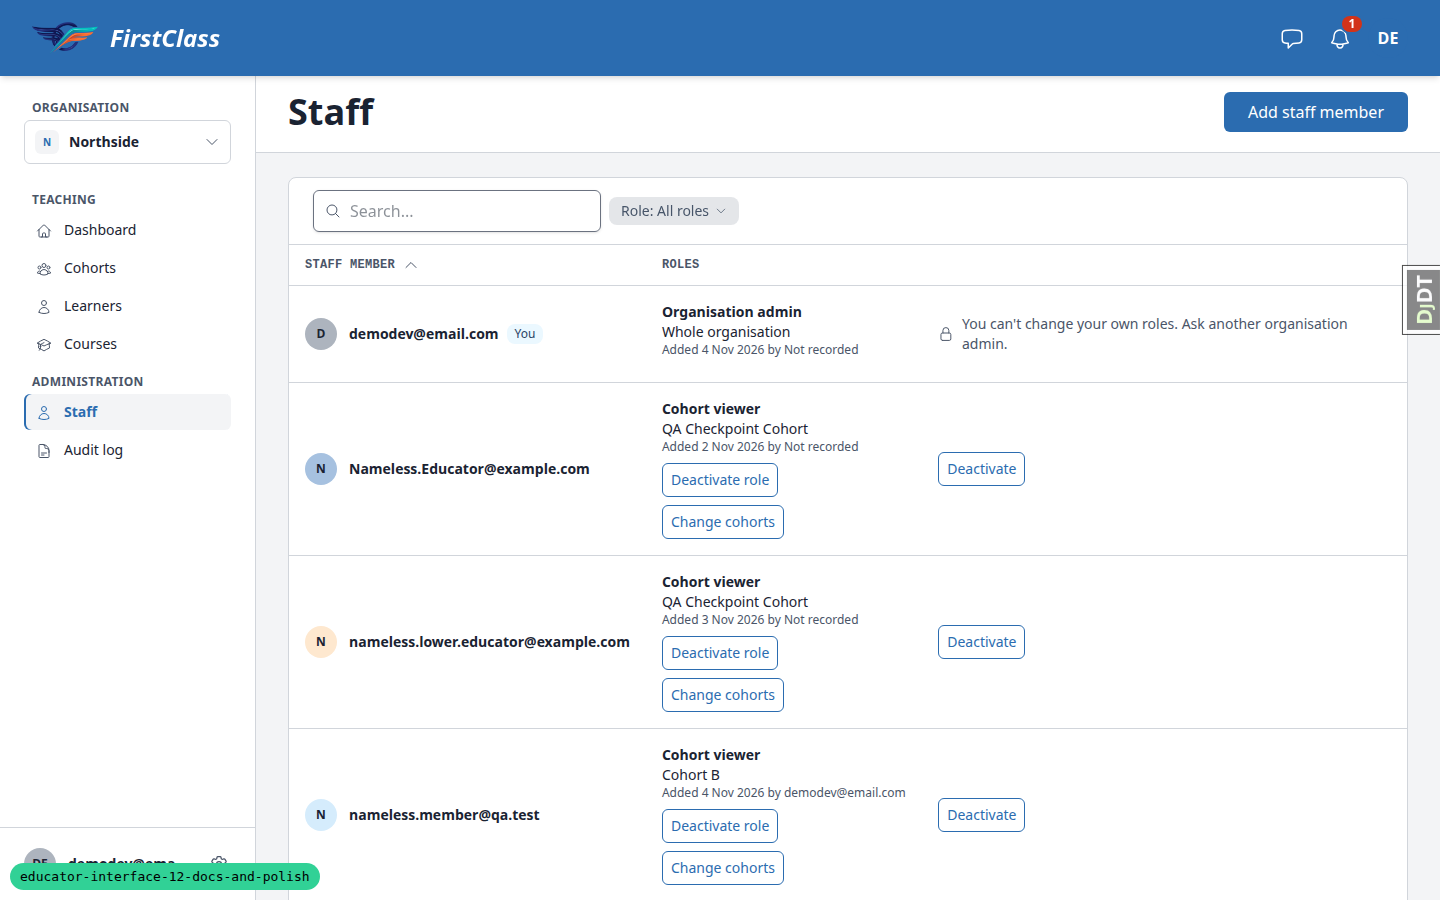
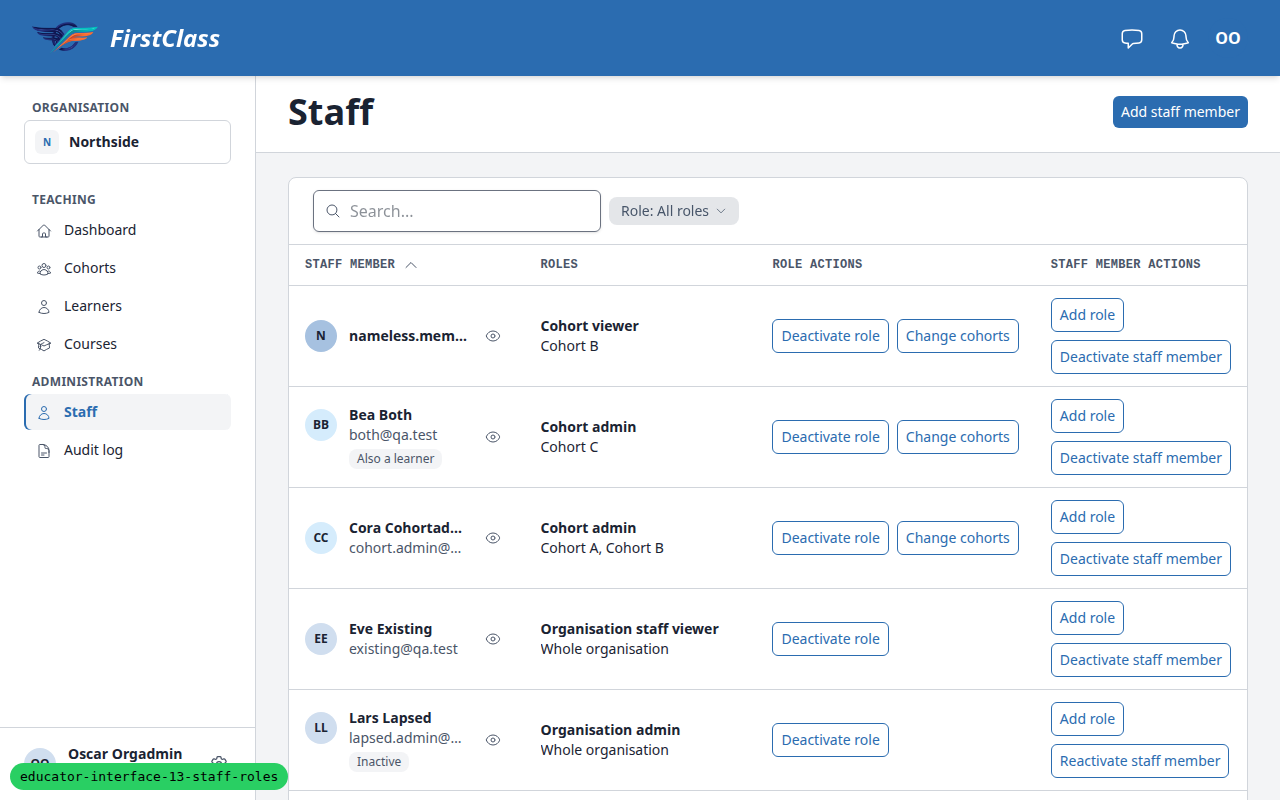
educator-interface-13-staff-roles: update the product docs

diff --git a/docs/product/educator-interface.md b/docs/product/educator-interface.md
@@ -4,16 +4,16 @@ _Last updated: 2026-11-11_
 
 ## Summary
 
-- Educators work in one panel scoped to one organisation at a time, with Dashboard, Cohorts, Learners and Courses under Teaching, and Staff and Audit log under Administration for admins. See [Organisation scope](#organisation-scope).
+- Educators work in one panel scoped to one organisation at a time, with Dashboard, Cohorts, Learners and Courses under Teaching, and Staff and Audit log under Administration. Staff is also open to the two staff viewer roles; Audit log is for admins. See [Organisation scope](#organisation-scope).
 - The dashboard shows totals, the learners who need attention and each cohort's progress. See [Dashboard](#dashboard).
 - Educators add learners by email or CSV file, see whether each is active, pending or inactive, manage their cohorts and course registrations, and deactivate or reactivate them. A quick view previews a learner or cohort without leaving the list. See [Learners](#learners).
 - Educators can act on many learners or cohorts at once, including everything matching the current filter. See [Bulk actions](#bulk-actions).
 - Educators create, rename, deactivate and delete cohorts, and register a cohort for courses. See [Cohorts](#cohorts).
 - The Courses list shows each course's visibility and interest count. A course's page shows its details and an outline of its content, and any topic or form can be previewed as a learner would see it, without recording progress. Visibility is read-only here. See [Courses](#courses).
-- Organisation admins add staff, assign and deactivate their roles, and deactivate or reactivate them. See [Staff and roles](#staff-and-roles).
+- Organisation admins add staff, assign and deactivate their roles, and deactivate or reactivate them. Cohort admins manage staff on their own cohorts, and two viewer roles can read the staff list. See [Staff and roles](#staff-and-roles).
 - Site and organisation admins see who changed what and when, on learner and cohort pages and in an Audit log, and a cohort admin sees it on the cohorts they administer. See [History](#history).
 - A cohort's progress report shows on screen, with a PDF to download. See [Reports](#reports).
-- Access is granted by role: site admin, organisation admin, cohort admin or cohort viewer. See [Access control](#access-control).
+- Access is granted by role: site admin, organisation admin, organisation staff viewer, organisation staff and roles viewer, cohort admin or cohort viewer. See [Access control](#access-control).
 - **Limits:** educators cannot see or set deadlines, and moving or deleting in bulk and updating existing learners from a file are not built. See [Limits](#limits).
 
 ## Dashboard
@@ -104,7 +104,7 @@ The Cohorts list shows each cohort in the current organisation the educator has 
 - **Deactivating.** An inactive cohort's registrations give no access to their courses and the cohort becomes read-only, so it takes no membership action. Learners keep their place and progress, and reactivating restores access. See [learner tracking](./learner-tracking.md#what-is-recorded).
 - **Deleting.** Only while the cohort has no learners and no course registrations, inactive ones included; otherwise the Settings tab says what still depends on it. Deleting a cohort also deletes the cohort roles held on it.
 
-Renaming, deactivating, reactivating and deleting need an organisation admin or site admin. A cohort admin can register their own cohort for courses and deactivate those registrations. An organisation admin can add a staff member to the cohort from the Settings tab's Staff list; roles are changed from [Staff](#staff-and-roles).
+Renaming, deactivating, reactivating and deleting need an organisation admin or site admin. A cohort admin can register their own cohort for courses and deactivate those registrations. An organisation admin or the cohort's admin can add staff to the cohort, change a person's role on it and remove them from it, from the Settings tab's Staff list. A cohort admin chooses only among staff they can already see. Adding a new person to the organisation's staff is for organisation admins; see [Staff and roles](#staff-and-roles).
 
 ## Courses
 
@@ -124,24 +124,27 @@ Visibility is set only in the course's content frontmatter and takes effect on i
 
 ## Staff and roles
 
-![Staff list with each staff member's roles, the cohorts a role covers and who added it, and an Add staff member button](screenshots/educator_members.png)
+![Staff list with each staff member's roles and the cohorts a role covers, the actions on each role and each staff member, and an Add staff member button](screenshots/educator_members.png)
 
-Staff are the people who help run an organisation, whether or not they teach. A staff member holds one or more roles in the organisation:
+Staff are the people who help run an organisation, whether or not they teach. A staff member holds one or more roles in the organisation, or none yet:
 
 - **Organisation admin**: manages learners, cohorts and staff in this organisation.
-- **Cohort admin**: manages the learners and course registrations in their cohorts.
+- **Organisation staff and roles viewer**: sees who is on the organisation's staff and the roles they hold, and changes nothing.
+- **Organisation staff viewer**: sees who is on the organisation's staff, without their roles, and changes nothing.
+- **Cohort admin**: manages the learners and course registrations in their cohorts, and the staff on them.
 - **Cohort viewer**: sees the learners and progress in their cohorts, and changes nothing.
 
-A fourth role, **site admin**, gives full access to every organisation on the site. It is not given from this interface (see [Limits](#limits)), and a site admin is listed as staff of an organisation only through a role they hold in it. A learner is a staff member only if they also hold one of these roles.
+The two staff viewer roles open the Staff section and no other section. A further role, **site admin**, gives full access to every organisation on the site. It is not given from this interface (see [Limits](#limits)), and a site admin is listed as staff of an organisation only through a role they hold in it. A learner is a staff member only if they also hold one of these roles.
 
-The Staff section is visible only to organisation admins and site admins. It lists each staff member with their roles, the cohorts a cohort role covers, and who added each role and when, and can be searched and filtered by role. From it an organisation admin can:
+The Staff section is open to organisation admins, site admins and the two staff viewer roles. It lists each staff member with their roles, the cohorts a cohort role covers, and who added each role and when, and can be searched and filtered by role. An organisation staff viewer sees names only. From it an organisation admin can:
 
-- **Add a staff member** by email. An existing account shows that person's name and email before anything is saved; a new address gets an account and an [account setup email](#adding-learners). The admin picks one role and, for a cohort role, the cohorts it covers, which does not extend to cohorts added later.
+- **Add a staff member** by typing a name or a full email. Matches appear as you type, drawn from the organisation's staff and active learners; a full email also reaches an account that is not yet in the organisation. An existing account shows that person's name and email before anything is saved; a new address gets an account and an [account setup email](#adding-learners). The admin picks one role and, for a cohort role, the cohorts it covers, which does not extend to cohorts added later, or picks no role yet.
+- **Add a role** to a staff member later.
 - **Change the cohorts** on a cohort role.
 - **Deactivate a role.** The person keeps their account, their other roles and any place as a learner.
 - **Deactivate a staff member**, which stops everything they can do in this organisation while keeping their roles, and **reactivate** them.
 
-Admins can give only roles at or below their own. A change that gives someone access they did not have, or takes access away, is confirmed first and says what changes. Roles add up: to change someone's role, assign the new one and deactivate the old. The person is not notified when a role is assigned or deactivated, a setup email cannot be resent from this section, and staff members have no page of their own. Role changes and staff deactivations are recorded in the [Audit log](#audit-log).
+Admins can give only roles at or below their own. A change that gives someone access they did not have, or takes access away, is confirmed first and says what changes. Roles add up: to change someone's role, assign the new one and deactivate the old. The person is not notified when a role is assigned or deactivated, a setup email cannot be resent from this section, and staff members have no page of their own. Adding a staff member, role changes and staff deactivations are recorded in the [Audit log](#audit-log).
 
 ## History
 
@@ -185,7 +188,7 @@ The current organisation is part of every page's address, so two browser tabs ca
 
 Access comes from **role assignments**; permissions granted on a cohort or organisation in the Django admin have no effect here. The roles are described in [Staff and roles](#staff-and-roles).
 
-A person holding several roles gets all of them. A role on an organisation covers every cohort in it, including ones created later; a role on a cohort covers that cohort and its learners. Organisation and cohort roles count only while the person is an active staff member of that organisation: deactivating a staff member switches off their access without deleting their roles, and reactivating restores it. Organisation admins can assign roles only within their own organisation, nobody can change their own roles, and an organisation's last admin can have the role deactivated, or be deactivated as a staff member, only by a site admin.
+A person holding several roles gets all of them. A role on an organisation covers every cohort in it, including ones created later; a role on a cohort covers that cohort and its learners. Organisation and cohort roles count only while the person is an active staff member of that organisation: deactivating a staff member switches off their access without deleting their roles, and reactivating restores it. Organisation admins can assign roles only within their own organisation. A person can change their own organisation or cohort role wherever they could give that role to someone else. Nobody can deactivate their own staff membership. An organisation's last admin can have the role deactivated, or be deactivated as a staff member, only by a site admin.
 
 Listings and detail pages are limited to what the educator's roles cover, and an educator who opens a page outside their access gets the same "not found" as for a record that does not exist. Every write is checked before it runs, and a control the role does not allow is hidden rather than shown disabled. If an educator acts from a page that was open when their access was removed, or the record has left their access, a dialog says the action can no longer be used there and names who to ask: the organisation's admins by name where the educator may see them, otherwise "an administrator".
 
